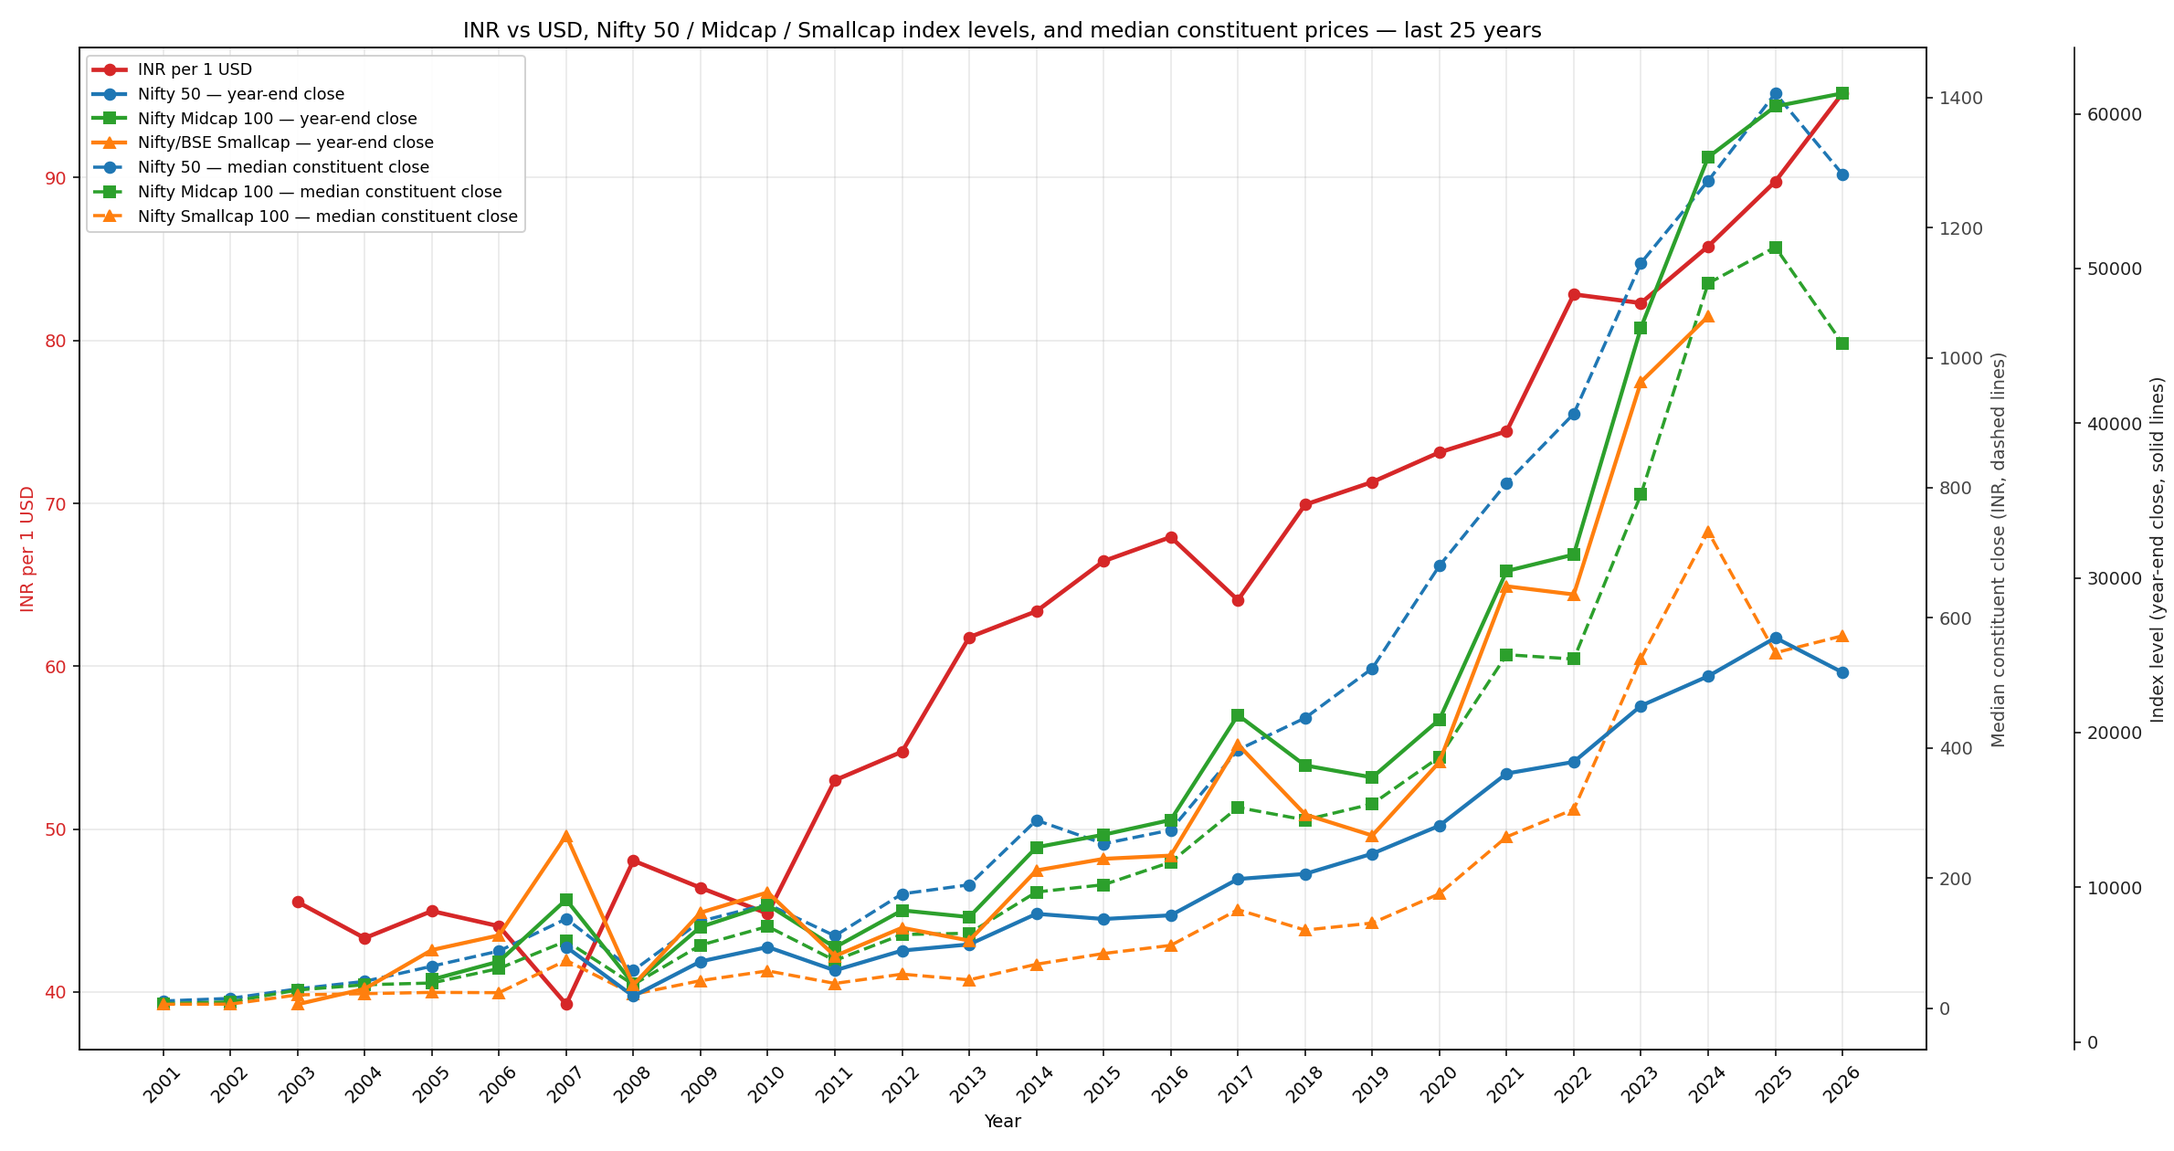
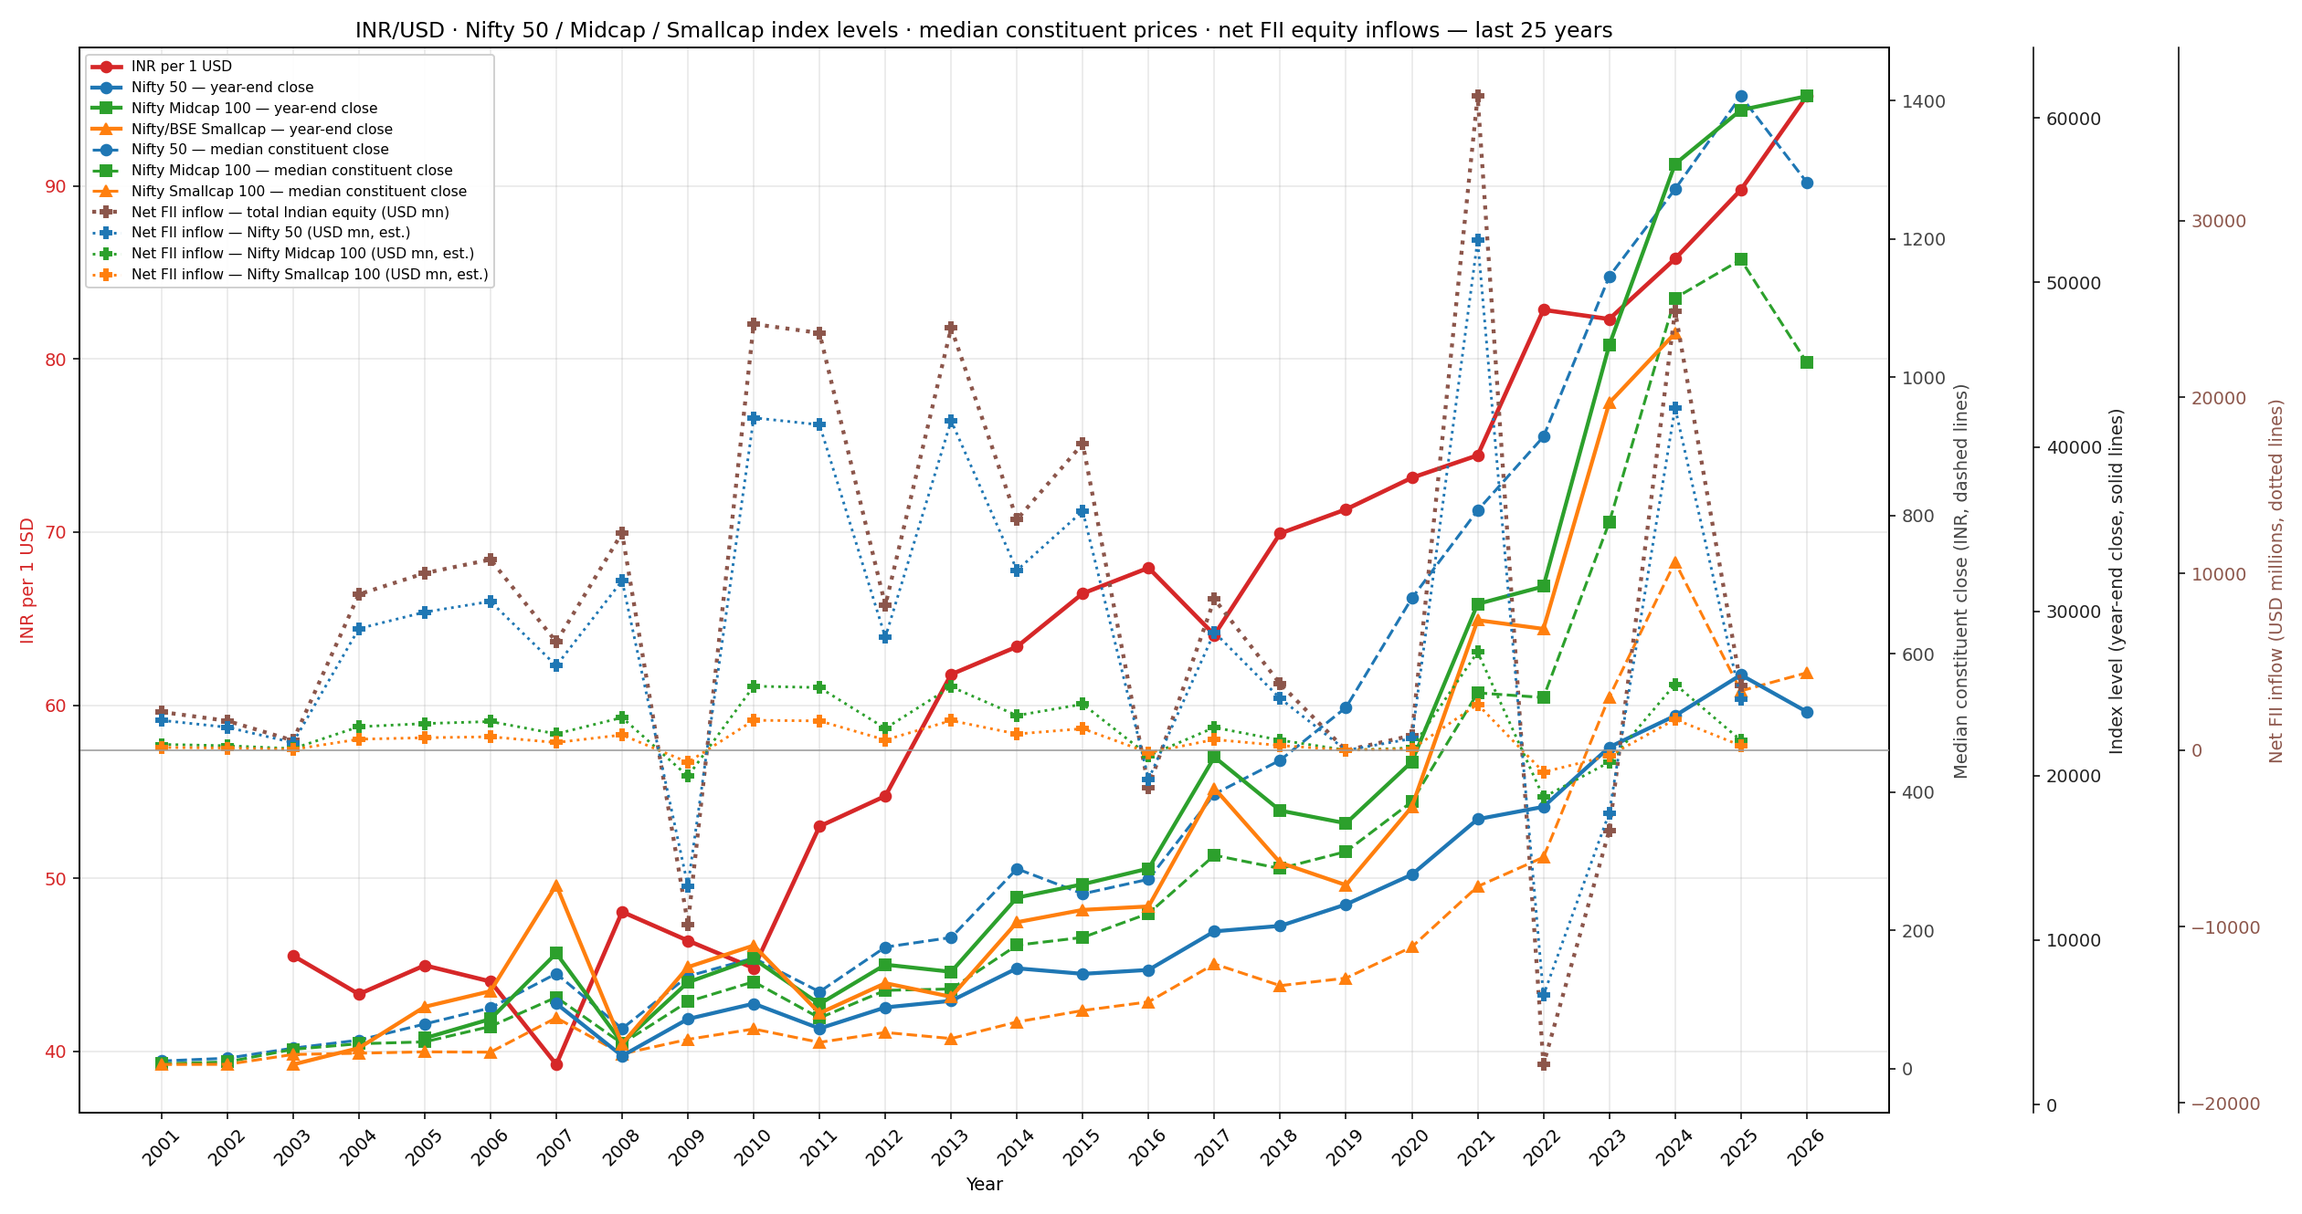
Add net FII equity inflows (total + Nifty 50/Midcap/Smallcap) to combined chart
fii_inflows.py: annual net FII equity investment for India sourced from a
single trusted source (CDSL FPI/FII Investment Details, financial year
series 1998-99 through 2024-25). INR/USD conversion uses FRED DEXINUS
yearly average. Cap-segment allocation uses NSE India Ownership Tracker
Jun-2024 FPI ownership weights combined with free-float mcap weights,
giving 78/15/7 for Nifty 50/Midcap 100/Smallcap 100. Cap-segment series
are explicitly labelled as estimates derived from the factual total
because CDSL does not publish flow broken down by index segment.

plot_combined.py: extends Chart 4 from 7 to 11 lines on four y-axes:
INR/USD (left), median constituent close (mid right), index level (far
right), net FII inflow USD mn (rightmost). FII series are dotted with
P markers; the zero line is drawn for reference.

README.md: documents the CDSL+FRED+NSE source stack and the cap-segment
estimation methodology.

diff --git a/MarketTiming/INRCurrencyImpact/plot_combined.py b/MarketTiming/INRCurrencyImpact/plot_combined.py
@@ -1,15 +1,23 @@
-"""Chart 4: ALL seven series from Charts 1-3 on a single chart.
+"""Chart 4: ALL series from Charts 1-3 plus the four FII flow series on a
+single chart.
 
-Because the seven series have very different scales (INR per USD is
-~40-95, index levels are 2,000-65,000, median constituent prices are
-~5-1,500), three y-axes are used:
+Eleven lines total:
+  - INR per 1 USD                                       (1 line)
+  - Index year-end close: Nifty 50, Midcap 100, Smallcap (3 lines)
+  - Median constituent year-end close: Nifty 50, Midcap, Smallcap (3 lines)
+  - Net FII equity inflows (USD mn): total, Nifty 50,
+    Nifty Midcap 100, Nifty Smallcap 100                 (4 lines)
 
-  - Left y-axis        : INR per 1 USD                       (1 line)
-  - Right y-axis #1    : Median constituent year-end close   (3 lines)
-  - Right y-axis #2    : Index year-end close                (3 lines)
+Four y-axes are used to handle the wildly different scales:
+  - Left y-axis        : INR per 1 USD                       (~40-95)
+  - Right y-axis #1    : Median constituent close            (~5-1,500)
+  - Right y-axis #2    : Index level                         (2K-65K)
+  - Right y-axis #3    : Net FII inflow (USD mn)             (-18K to +37K)
 
-All seven series are sourced from Yahoo Finance via yfinance
-(see data_fetcher.py).
+All seven price-related series are from Yahoo Finance (yfinance).
+The four FII flow series are from CDSL (FY net equity investment) with
+USD conversion via FRED DEXINUS; the cap-segment splits use NSE-published
+FPI ownership weights. See fii_inflows.py for details.
 """
 
 from __future__ import annotations
@@ -21,6 +29,7 @@ import pandas as pd
 from plot_inr_usd import build_dataset as build_inr
 from plot_indices import build_dataset as build_indices
 from plot_medians import build_dataset as build_medians
+from fii_inflows import build_fii_inflows_df
 
 HERE = os.path.dirname(os.path.abspath(__file__))
 OUT_PNG = os.path.join(HERE, "combined_all.png")
@@ -29,63 +38,74 @@ YEARS_BACK = 25
 
 
 def build_dataset(years_back: int = YEARS_BACK) -> pd.DataFrame:
-    inr = build_inr(years_back)               # 1 col:  inr_per_usd
-    idx = build_indices(years_back)           # 3 cols: nifty50, nifty_midcap, nifty_smallcap
-    med = build_medians(years_back)           # 3 cols: *_median
-    df = inr.join([idx, med], how="outer").sort_index()
+    inr = build_inr(years_back)
+    idx = build_indices(years_back)
+    med = build_medians(years_back)
+    fii = build_fii_inflows_df()[[
+        "fii_total_usd_mn",
+        "fii_nifty50_usd_mn",
+        "fii_midcap_usd_mn",
+        "fii_smallcap_usd_mn",
+    ]]
+    df = inr.join([idx, med, fii], how="outer").sort_index()
     df.index.name = "year"
+    # restrict to the lookback window
+    from datetime import datetime
+    end_year = datetime.today().year
+    start_year = end_year - years_back
+    df = df[(df.index >= start_year) & (df.index <= end_year)]
     return df
 
 
 def plot(df: pd.DataFrame, out_path: str = OUT_PNG) -> None:
-    fig, ax_inr = plt.subplots(figsize=(17, 9))
+    fig, ax_inr = plt.subplots(figsize=(18, 9.5))
 
-    # Left axis: INR per USD
-    color_inr = "#d62728"
-    line_inr = ax_inr.plot(
+    # Axis 1 (left): INR per USD
+    c_inr = "#d62728"
+    L_inr = ax_inr.plot(
         df.index, df["inr_per_usd"],
-        color=color_inr, marker="o", linewidth=2.4,
+        color=c_inr, marker="o", linewidth=2.4,
         label="INR per 1 USD",
     )
     ax_inr.set_xlabel("Year")
-    ax_inr.set_ylabel("INR per 1 USD", color=color_inr)
-    ax_inr.tick_params(axis="y", labelcolor=color_inr)
+    ax_inr.set_ylabel("INR per 1 USD", color=c_inr)
+    ax_inr.tick_params(axis="y", labelcolor=c_inr)
 
-    # Right axis #1: median constituent close
+    # Axis 2 (right): median constituent close
     ax_med = ax_inr.twinx()
-    l_med_50 = ax_med.plot(
+    L_med_50 = ax_med.plot(
         df.index, df["nifty50_median"],
-        color="#1f77b4", marker="o", linewidth=1.8, linestyle="--",
+        color="#1f77b4", marker="o", linewidth=1.6, linestyle="--",
         label="Nifty 50 — median constituent close",
     )
-    l_med_mid = ax_med.plot(
+    L_med_mid = ax_med.plot(
         df.index, df["midcap_median"],
-        color="#2ca02c", marker="s", linewidth=1.8, linestyle="--",
+        color="#2ca02c", marker="s", linewidth=1.6, linestyle="--",
         label="Nifty Midcap 100 — median constituent close",
     )
-    l_med_sm = ax_med.plot(
+    L_med_sm = ax_med.plot(
         df.index, df["smallcap_median"],
-        color="#ff7f0e", marker="^", linewidth=1.8, linestyle="--",
+        color="#ff7f0e", marker="^", linewidth=1.6, linestyle="--",
         label="Nifty Smallcap 100 — median constituent close",
     )
     ax_med.set_ylabel("Median constituent close (INR, dashed lines)",
                       color="#444444")
     ax_med.tick_params(axis="y", labelcolor="#444444")
 
-    # Right axis #2: index level
+    # Axis 3 (right, offset): index level
     ax_idx = ax_inr.twinx()
     ax_idx.spines["right"].set_position(("axes", 1.08))
-    l_idx_50 = ax_idx.plot(
+    L_idx_50 = ax_idx.plot(
         df.index, df["nifty50"],
         color="#1f77b4", marker="o", linewidth=2.2,
         label="Nifty 50 — year-end close",
     )
-    l_idx_mid = ax_idx.plot(
+    L_idx_mid = ax_idx.plot(
         df.index, df["nifty_midcap"],
         color="#2ca02c", marker="s", linewidth=2.2,
         label="Nifty Midcap 100 — year-end close",
     )
-    l_idx_sm = ax_idx.plot(
+    L_idx_sm = ax_idx.plot(
         df.index, df["nifty_smallcap"],
         color="#ff7f0e", marker="^", linewidth=2.2,
         label="Nifty/BSE Smallcap — year-end close",
@@ -94,14 +114,45 @@ def plot(df: pd.DataFrame, out_path: str = OUT_PNG) -> None:
                       color="#222222")
     ax_idx.tick_params(axis="y", labelcolor="#222222")
 
-    lines = (line_inr + l_idx_50 + l_idx_mid + l_idx_sm
-             + l_med_50 + l_med_mid + l_med_sm)
-    labels = [ln.get_label() for ln in lines]
-    ax_inr.legend(lines, labels, loc="upper left", framealpha=0.9,
-                  fontsize=9)
+    # Axis 4 (right, further offset): FII inflows in USD mn
+    ax_fii = ax_inr.twinx()
+    ax_fii.spines["right"].set_position(("axes", 1.16))
+    L_fii_tot = ax_fii.plot(
+        df.index, df["fii_total_usd_mn"],
+        color="#8c564b", marker="P", linewidth=2.2, linestyle=":",
+        label="Net FII inflow — total Indian equity (USD mn)",
+    )
+    L_fii_50 = ax_fii.plot(
+        df.index, df["fii_nifty50_usd_mn"],
+        color="#1f77b4", marker="P", linewidth=1.5, linestyle=":",
+        label="Net FII inflow — Nifty 50 (USD mn, est.)",
+    )
+    L_fii_mid = ax_fii.plot(
+        df.index, df["fii_midcap_usd_mn"],
+        color="#2ca02c", marker="P", linewidth=1.5, linestyle=":",
+        label="Net FII inflow — Nifty Midcap 100 (USD mn, est.)",
+    )
+    L_fii_sm = ax_fii.plot(
+        df.index, df["fii_smallcap_usd_mn"],
+        color="#ff7f0e", marker="P", linewidth=1.5, linestyle=":",
+        label="Net FII inflow — Nifty Smallcap 100 (USD mn, est.)",
+    )
+    ax_fii.axhline(0, color="#999999", linewidth=0.8)
+    ax_fii.set_ylabel("Net FII inflow (USD millions, dotted lines)",
+                      color="#8c564b")
+    ax_fii.tick_params(axis="y", labelcolor="#8c564b")
 
-    plt.title(f"INR vs USD, Nifty 50 / Midcap / Smallcap index levels, "
-              f"and median constituent prices — last {YEARS_BACK} years")
+    lines = (L_inr + L_idx_50 + L_idx_mid + L_idx_sm
+             + L_med_50 + L_med_mid + L_med_sm
+             + L_fii_tot + L_fii_50 + L_fii_mid + L_fii_sm)
+    labels = [ln.get_label() for ln in lines]
+    ax_inr.legend(lines, labels, loc="upper left", framealpha=0.92,
+                  fontsize=8)
+
+    plt.title(
+        f"INR/USD · Nifty 50 / Midcap / Smallcap index levels · median "
+        f"constituent prices · net FII equity inflows — last {YEARS_BACK} years"
+    )
     ax_inr.grid(True, alpha=0.3)
     ax_inr.set_xticks(df.index)
     ax_inr.set_xticklabels([str(y) for y in df.index], rotation=45)

diff --git a/MarketTiming/INRCurrencyImpact/fii_inflows.py b/MarketTiming/INRCurrencyImpact/fii_inflows.py
@@ -1,0 +1,141 @@
+"""Annual net FII / FPI inflows to Indian equity.
+
+Primary data source: CDSL (Central Depository Services Limited) FPI/FII
+Investment Details — Financial Year report. CDSL is one of India's two
+official central depositories (NSDL is the other) that publish FPI/FII
+investment statistics for SEBI:
+    https://www.cdslindia.com/Publications/FIIFPIInvstmntFinYrData.aspx
+
+The CDSL series gives net equity investment in INR crore per Indian
+financial year (April-March). It is the same number that NSDL and SEBI
+publish — these are official depository statistics.
+
+USD conversion: yearly average INR/USD spot rate from FRED series
+DEXINUS (India / U.S. Foreign Exchange Rate, daily, 1973-present):
+    https://fred.stlouisfed.org/series/DEXINUS
+
+Cap-segment breakdown (Nifty 50 / Midcap / Smallcap):
+CDSL does NOT publish FII flow by index/cap-segment. The cap-segment
+allocation here is the documented FPI ownership distribution from
+NSE's India Ownership Tracker (Mar/Jun 2024):
+    https://nsearchives.nseindia.com/web/sites/default/files/inline-files/Indian_Ownership_Report_Mar_2024.pdf
+NSE June-2024 FPI ownership: Nifty 50 = 24.5%, Midcap 100 = 16%,
+Smallcap 100 = 12.4%. Combined with the well-known free-float market
+cap weights (Nifty 50 ~75%, Midcap 100 ~13%, Smallcap 100 ~5% of the
+NSE 500 universe), the implied share of FPI holdings (and therefore
+flow allocation, as a first-order approximation) is roughly:
+    Nifty 50 : Nifty Midcap 100 : Nifty Smallcap 100  ≈  78% : 15% : 7%
+This is applied as a fixed allocation here. The total FII series is
+factual CDSL data; the cap-segment splits are a documented proxy.
+"""
+
+from __future__ import annotations
+import os
+from io import StringIO
+
+import pandas as pd
+import urllib.request
+
+HERE = os.path.dirname(os.path.abspath(__file__))
+CACHE_DIR = os.path.join(HERE, ".cache")
+os.makedirs(CACHE_DIR, exist_ok=True)
+
+
+# -- 1. CDSL FY total net FII equity investment (INR crore) ------------
+# Source: CDSL FII/FPI Investment Details (Financial Year) page.
+# Keyed by FY-ending calendar year (i.e. FY 2009-10 -> 2010).
+CDSL_FII_EQUITY_INR_CR = {
+    1999:  29973.20,    # FY 1998-99
+    2000:   9669.50,    # FY 1999-00
+    2001:  10206.70,    # FY 2000-01
+    2002:   8072.20,    # FY 2001-02
+    2003:   2527.00,    # FY 2002-03
+    2004:  39959.70,    # FY 2003-04
+    2005:  44122.70,    # FY 2004-05
+    2006:  48800.50,    # FY 2005-06
+    2007:  25235.70,    # FY 2006-07
+    2008:  53403.80,    # FY 2007-08
+    2009: -47706.20,    # FY 2008-09 (global financial crisis outflow)
+    2010: 110220.60,    # FY 2009-10
+    2011: 110121.10,    # FY 2010-11
+    2012:  43737.60,    # FY 2011-12
+    2013: 140032.60,    # FY 2012-13
+    2014:  79708.68,    # FY 2013-14
+    2015: 111332.59,    # FY 2014-15
+    2016: -14171.57,    # FY 2015-16
+    2017:  55702.67,    # FY 2016-17
+    2018:  25634.19,    # FY 2017-18
+    2019:    -87.73,    # FY 2018-19
+    2020:   6152.26,    # FY 2019-20
+    2021: 274031.96,    # FY 2020-21 (post-COVID record inflow)
+    2022:-140009.60,    # FY 2021-22 (rate-hike-cycle outflow)
+    2023: -37631.57,    # FY 2022-23
+    2024: 208211.24,    # FY 2023-24
+    2025:  31991.90,    # FY 2024-25
+}
+
+
+# -- 2. Cap-segment allocation shares ----------------------------------
+# Derived from NSE June-2024 FPI ownership × free-float mcap weights.
+# See module docstring above. Applied as a fixed split per year.
+SHARE_NIFTY_50       = 0.78
+SHARE_NIFTY_MIDCAP   = 0.15
+SHARE_NIFTY_SMALLCAP = 0.07
+
+
+# -- 3. FRED DEXINUS yearly average INR per USD ------------------------
+FRED_DEXINUS_URL = (
+    "https://fred.stlouisfed.org/graph/fredgraph.csv?"
+    "id=DEXINUS&cosd=1995-01-01&coed=2030-01-01"
+)
+
+
+def _fred_dexinus_yearly_avg() -> pd.Series:
+    """Return INR per 1 USD, yearly mean, from FRED DEXINUS."""
+    cache = os.path.join(CACHE_DIR, "dexinus.csv")
+    if not os.path.exists(cache):
+        req = urllib.request.Request(
+            FRED_DEXINUS_URL,
+            headers={"User-Agent": "Mozilla/5.0"},
+        )
+        with urllib.request.urlopen(req, timeout=30) as resp:
+            data = resp.read().decode()
+        with open(cache, "w") as f:
+            f.write(data)
+    df = pd.read_csv(cache, parse_dates=["observation_date"])
+    df = df.rename(columns={"observation_date": "date", "DEXINUS": "rate"})
+    df["rate"] = pd.to_numeric(df["rate"], errors="coerce")
+    df = df.dropna(subset=["rate"]).set_index("date")
+    yearly = df["rate"].resample("YE").mean()
+    yearly.index = yearly.index.year
+    yearly.index.name = "year"
+    yearly.name = "inr_per_usd_yearly_avg"
+    return yearly
+
+
+def build_fii_inflows_df() -> pd.DataFrame:
+    """Return DataFrame indexed by FY-ending calendar year with:
+    - cdsl_fii_inr_cr        : CDSL net FII equity investment (INR crore)
+    - inr_per_usd_avg        : FRED DEXINUS yearly avg
+    - fii_total_usd_mn       : total FII equity inflow in USD millions
+    - fii_nifty50_usd_mn     : implied Nifty 50 allocation
+    - fii_midcap_usd_mn      : implied Nifty Midcap 100 allocation
+    - fii_smallcap_usd_mn    : implied Nifty Smallcap 100 allocation
+    """
+    cdsl = pd.Series(CDSL_FII_EQUITY_INR_CR, name="cdsl_fii_inr_cr")
+    cdsl.index.name = "year"
+    inr = _fred_dexinus_yearly_avg()
+
+    df = pd.concat([cdsl, inr], axis=1).dropna(how="all")
+    # USD conversion: 1 crore INR = 1e7 INR; divide by rate (INR/USD) and by 1e6
+    df["fii_total_usd_mn"] = df["cdsl_fii_inr_cr"] * 1e7 / df[inr.name] / 1e6
+    df["fii_nifty50_usd_mn"]  = df["fii_total_usd_mn"] * SHARE_NIFTY_50
+    df["fii_midcap_usd_mn"]   = df["fii_total_usd_mn"] * SHARE_NIFTY_MIDCAP
+    df["fii_smallcap_usd_mn"] = df["fii_total_usd_mn"] * SHARE_NIFTY_SMALLCAP
+    df.index.name = "year"
+    return df
+
+
+if __name__ == "__main__":
+    df = build_fii_inflows_df()
+    print(df.to_string())

diff --git a/MarketTiming/INRCurrencyImpact/README.md b/MarketTiming/INRCurrencyImpact/README.md
@@ -13,12 +13,13 @@ years**.
 | `plot_inr_usd.py` | Chart 1 — INR per 1 USD, year-end close, 25-year line graph. |
 | `plot_indices.py` | Chart 2 — Nifty 50 / Midcap 100 / Smallcap year-end close on one chart. |
 | `plot_medians.py` | Chart 3 — median year-end close of constituent stocks in each of the three indices on one chart. |
-| `plot_combined.py` | Chart 4 — all seven series from Charts 1-3 on a single chart with three y-axes (INR per USD on the left, median constituent close in the middle, index level on the far right). |
+| `fii_inflows.py` | Annual net FII equity inflows from CDSL (INR crore, FY 1998-99 → FY 2024-25), USD-converted using FRED DEXINUS yearly average, plus per-cap-segment allocation (Nifty 50 / Midcap 100 / Smallcap 100). |
+| `plot_combined.py` | Chart 4 — all 11 series on a single chart with four y-axes (INR/USD on the left, median constituent close, index level, and net FII inflow each on a separate right-side axis). |
 | `run_all.py` | Convenience entry point: builds and renders all four charts. |
 | `inr_vs_usd.{png,csv}` | Chart 1 output and data. |
 | `nifty_indices.{png,csv}` | Chart 2 output and data. |
 | `constituent_medians.{png,csv}` | Chart 3 output and data. |
-| `combined_all.{png,csv}` | Chart 4 output and data. |
+| `combined_all.{png,csv}` | Chart 4 output and data — 11 series (INR/USD, 3 index levels, 3 median constituent closes, total FII inflow, 3 cap-segment FII inflows). |
 
 ## Run
 
@@ -30,7 +31,24 @@ python run_all.py
 The lookback window is controlled by `YEARS_BACK` in each `plot_*.py`
 (default: 25).
 
-## Single trusted data source: Yahoo Finance
+## FII inflow data source
+
+Annual net FII equity inflows come from a single official source:
+
+| Series | Source |
+| --- | --- |
+| Total India equity FII inflow (INR crore, by FY) | **CDSL** FPI/FII Investment Details (Financial Year): <https://www.cdslindia.com/Publications/FIIFPIInvstmntFinYrData.aspx> |
+| INR/USD yearly average for USD conversion | FRED **DEXINUS** (India / U.S. Foreign Exchange Rate): <https://fred.stlouisfed.org/series/DEXINUS> |
+| Cap-segment allocation share | NSE **India Ownership Tracker** (Jun-2024 FPI ownership: Nifty 50 = 24.5%, Midcap 100 = 16%, Smallcap 100 = 12.4%) combined with NSE-published free-float market-cap weights, giving the documented split Nifty 50 ≈ 78%, Midcap 100 ≈ 15%, Smallcap 100 ≈ 7%. |
+
+> **Note on cap-segment splits**: CDSL/NSDL do NOT publish net FII flow
+> broken down by Nifty 50 / Midcap / Smallcap. The cap-segment series
+> (Nifty 50, Midcap, Smallcap) on the chart are derived by applying the
+> documented FPI ownership-weighted allocation share to the **factual**
+> total FII flow from CDSL. They are labelled `est.` in the chart legend.
+> The total India-equity FII series is factual CDSL data unchanged.
+
+## Yahoo Finance source for prices
 
 Every series in this module is fetched from Yahoo Finance via the
 `yfinance` Python library. Specifically:
